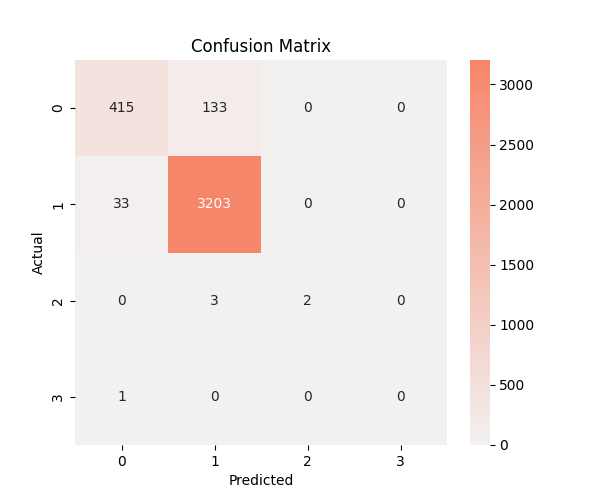
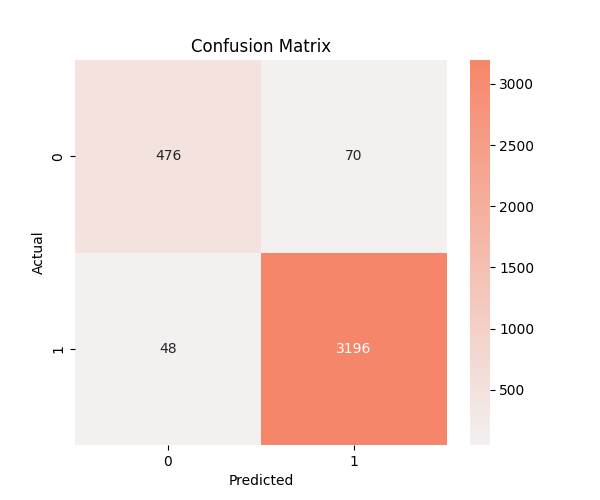
Updated SVM model

diff --git a/client/src/app.js b/client/src/app.js
@@ -1,7 +1,7 @@
 import React, { use, useEffect, useState } from "react";
 import axios from "axios";
 import { Chart, registerables } from "chart.js";
-import Sidebar from "./components/Navbar";
+import Navbar from "./components/Navbar";
 
 Chart.register(...registerables);
 
@@ -37,9 +37,12 @@ const App = () => {
           <div className="mt-6 text-center">
             <h2 className="text-xl font-semibold">Confusion Matrix</h2>
             <img src={data.conf_matrix} alt="Confusion Matrix" className="mt-4 w-auto max-w-full" />
+          </div>
+          <div className="mt-6 text-center">
             <img src={data.scatter_plot} alt="Scatter Plot" className="mt-4 w-auto max-w-full" />
-            <img src={data.pie_chart} alt="Scatter Plot" className="mt-4 w-auto max-w-full" />
-
+          </div>
+          <div className="mt-6 text-center">
+          <img src={data.pie_chart} alt="Scatter Plot" className="mt-4 w-auto max-w-full" />
           </div>
         </div>
       </div>

diff --git a/SVM/svm_model.py b/SVM/svm_model.py
@@ -31,17 +31,72 @@ try:
         # Drop unnecessary columns
         columns_to_drop = ['INDEX', 'ACCNUM', 'OBJECTID', 'HOOD_158', 'NEIGHBOURHOOD_158', 
                            'HOOD_140', 'NEIGHBOURHOOD_140', 'STREET1', 'STREET2', 'OFFSET', 
-                           'FATAL_NO', 'DISTRICT', 'DIVISION']
-        data_ksi.drop(columns=columns_to_drop, inplace=True)
+                           'FATAL_NO', 'DISTRICT', 'DIVISION','x','y','INJURY','INVTYPE','INVAGE','INITDIR','VEHTYPE',
+                           'MANOEUVER','DRIVACT','PEDTYPE','PEDACT','CYCLISTYPE','CYCACT',]
         
+        print("\n===================== UNIQUE VALUES =====================")
+        print("\nUnique values in DATE:", data_ksi["DATE"].unique())
+        print("\nUnique values in TIME:", data_ksi["TIME"].unique())
+        print("\nUnique values in ROAD_CLASS:", data_ksi["ROAD_CLASS"].unique())
+        print("\nUnique values in ACCLOC:",data_ksi["ACCLOC"].unique())
+        print("\nUnique values in TRAFFCTL:", data_ksi["TRAFFCTL"].unique())
+        print("\nUnique values in VISIBILITY:", data_ksi["VISIBILITY"].unique())
+        print("\nUnique values in LIGHT:", data_ksi["LIGHT"].unique())
+        print("\nUnique values in RDSFCOND:", data_ksi["RDSFCOND"].unique())
+        print("\nUnique values in IMPACTYPE:", data_ksi["IMPACTYPE"].unique())
+        print("\nUnique values in INVTYPE:", data_ksi["INVTYPE"].unique())
+        print("\nUnique values in INVAGE:", data_ksi["INVAGE"].unique())
+        print("\nUnique values in INJURY:", data_ksi["INJURY"].unique())
+        print("\nUnique values in INITDIR:", data_ksi["INITDIR"].unique())
+        print("\nUnique values in VEHTYPE:", data_ksi["VEHTYPE"].unique())
+        print("\nUnique values in MANOEUVER:", data_ksi["MANOEUVER"].unique())
+        print("\nUnique values in DRIVACT:", data_ksi["DRIVACT"].unique())
+        print("\nUnique values in DRIVCOND:", data_ksi["DRIVCOND"].unique())
+        print("\nUnique values in PEDTYPE:", data_ksi["PEDTYPE"].unique())
+        print("\nUnique values in PEDACT:", data_ksi["PEDACT"].unique())
+        print("\nUnique values in PEDCOND:", data_ksi["PEDCOND"].unique())
+        print("\nUnique values in CYCLISTYPE:", data_ksi["CYCLISTYPE"].unique())
+        print("\nUnique values in CYCACT:", data_ksi["CYCACT"].unique())
+        print("\nUnique values in CYCCOND:", data_ksi["CYCCOND"].unique())
+        print("\nUnique values in PEDESTRIAN:", data_ksi["PEDESTRIAN"].unique())
+        print("\nUnique values in CYCLIST:", data_ksi["CYCLIST"].unique())
+        print("\nUnique values in AUTOMOBILE:",data_ksi["AUTOMOBILE"].unique())
+        print("\nUnique values in MOTORCYCLE:", data_ksi["MOTORCYCLE"].unique())
+        print("\nUnique values in TRUCK:", data_ksi["TRUCK"].unique())
+        print("\nUnique values in TRSN_CITY_VEH:", data_ksi["TRSN_CITY_VEH"].unique())
+        print("\nUnique values in EMERG_VEH:", data_ksi["EMERG_VEH"].unique())
+        print("\nUnique values in PASSENGER:", data_ksi["PASSENGER"].unique())
+        print("\nUnique values in SPEEDING:", data_ksi["SPEEDING"].unique())
+        print("\nUnique values in AG_DRIV:", data_ksi["AG_DRIV"].unique())
+        print("\nUnique values in REDLIGHT:", data_ksi["REDLIGHT"].unique())
+        print("\nUnique values in ALCOHOL:", data_ksi["ALCOHOL"].unique())
+        print("\nUnique values in DISABILITY:", data_ksi["DISABILITY"].unique())
+        print("\nUnique values in ACCLASS:", data_ksi["ACCLASS"].unique())
+
+        # Drop unnecessary columns
+        data_ksi.drop(columns=columns_to_drop, inplace=True)
+
+        data_ksi = data_ksi.dropna(subset=["ACCLASS"])
+
+        data_ksi["PEDESTRIAN"] = data_ksi["PEDESTRIAN"].fillna("No")
+        data_ksi["CYCLIST"] = data_ksi["CYCLIST"].fillna("No")
+        data_ksi["AUTOMOBILE"] = data_ksi["AUTOMOBILE"].fillna("No")
+        data_ksi["MOTORCYCLE"] = data_ksi["MOTORCYCLE"].fillna("No")
+        data_ksi["TRUCK"] = data_ksi["TRUCK"].fillna("No")
+        data_ksi["TRSN_CITY_VEH"] = data_ksi["TRSN_CITY_VEH"].fillna("No")
+        data_ksi["EMERG_VEH"] = data_ksi["EMERG_VEH"].fillna("No")
+        data_ksi["PASSENGER"] = data_ksi["PASSENGER"].fillna("No")
+        data_ksi["SPEEDING"] = data_ksi["SPEEDING"].fillna("No")
+        data_ksi["AG_DRIV"] = data_ksi["AG_DRIV"].fillna("No")
+        data_ksi["REDLIGHT"] = data_ksi["REDLIGHT"].fillna("No")
+        data_ksi["ALCOHOL"] = data_ksi["ALCOHOL"].fillna("No")
+        data_ksi["DISABILITY"] = data_ksi["DISABILITY"].fillna("No")
+        data_ksi["ACCLASS"] = data_ksi["ACCLASS"].replace("Property Damage O", "Non-Fatal Injury")
+
         # Separate features & target
         target = data_ksi["ACCLASS"]
         features = data_ksi.drop(columns=["ACCLASS"])
-        
-        print("\n===================== UNIQUE VALUES =====================")
-        print("\nUnique values in ROAD_CLASS:", features["ROAD_CLASS"].unique())
-        print("\nUnique values in ACCLASS:", target.unique())
-        
+
         # Isolate last 10 records for unseen data
         unseen_features = features.iloc[-10:]
         unseen_labels = target.iloc[-10:]
@@ -130,17 +185,17 @@ try:
     ])
 
     # Best Parameters by Kernel
-    # param_grid_svm = [
-    #     {'svm__kernel': ['linear'], 'svm__C': [1]}, # linear kernel    
-    #     {'svm__kernel': ['rbf'], 'svm__C': [100], 'svm__gamma': [0.03]},  # rbf kernel
-    #     {'svm__kernel': ['poly'], 'svm__C': [0.1], 'svm__gamma': [3.0], 'svm__degree': [3]}  # poly kernel 
-    # ]
-
     param_grid_svm = [
-        {'svm__kernel': ['linear'], 'svm__C': [0.01, 0.1, 1, 10, 100]},  # linear kernel    
-        {'svm__kernel': ['rbf'], 'svm__C': [0.01, 0.1, 1, 10, 100], 'svm__gamma': [0.01, 0.03, 0.1, 0.3, 1.0, 3.0]},  # rbf kernel
-        {'svm__kernel': ['poly'], 'svm__C': [0.01, 0.1, 1, 10, 100], 'svm__gamma': [0.01, 0.03, 0.1, 0.3, 1.0, 3.0], 'svm__degree': [2, 3]}  # poly kernel 
+        #{'svm__kernel': ['linear'], 'svm__C': [1]}, # linear kernel    
+        #{'svm__kernel': ['rbf'], 'svm__C': [100], 'svm__gamma': [0.03]},  # rbf kernel
+        {'svm__kernel': ['poly'], 'svm__C': [0.1], 'svm__gamma': [3.0], 'svm__degree': [3]}  # poly kernel 
     ]
+
+    # param_grid_svm = [
+    #     {'svm__kernel': ['linear'], 'svm__C': [0.01, 0.1, 1, 10, 100]},  # linear kernel    
+    #     {'svm__kernel': ['rbf'], 'svm__C': [0.01, 0.1, 1, 10, 100], 'svm__gamma': [0.01, 0.03, 0.1, 0.3, 1.0, 3.0]},  # rbf kernel
+    #     {'svm__kernel': ['poly'], 'svm__C': [0.01, 0.1, 1, 10, 100], 'svm__gamma': [0.01, 0.03, 0.1, 0.3, 1.0, 3.0], 'svm__degree': [2, 3]}  # poly kernel 
+    # ]
 
     grid_search_ksi = GridSearchCV(estimator=pipe_svm_ksi, param_grid=param_grid_svm, scoring='accuracy', refit=True, verbose=3)
 

diff --git a/SVM/svm_xgboost_model.py b/SVM/svm_xgboost_model.py
@@ -31,17 +31,72 @@ try:
         # Drop unnecessary columns
         columns_to_drop = ['INDEX', 'ACCNUM', 'OBJECTID', 'HOOD_158', 'NEIGHBOURHOOD_158', 
                            'HOOD_140', 'NEIGHBOURHOOD_140', 'STREET1', 'STREET2', 'OFFSET', 
-                           'FATAL_NO', 'DISTRICT', 'DIVISION']
-        data_ksi.drop(columns=columns_to_drop, inplace=True)
+                           'FATAL_NO', 'DISTRICT', 'DIVISION','x','y','INJURY','INVTYPE','INVAGE','INITDIR','VEHTYPE',
+                           'MANOEUVER','DRIVACT','PEDTYPE','PEDACT','CYCLISTYPE','CYCACT',]
         
+        print("\n===================== UNIQUE VALUES =====================")
+        print("\nUnique values in DATE:", data_ksi["DATE"].unique())
+        print("\nUnique values in TIME:", data_ksi["TIME"].unique())
+        print("\nUnique values in ROAD_CLASS:", data_ksi["ROAD_CLASS"].unique())
+        print("\nUnique values in ACCLOC:",data_ksi["ACCLOC"].unique())
+        print("\nUnique values in TRAFFCTL:", data_ksi["TRAFFCTL"].unique())
+        print("\nUnique values in VISIBILITY:", data_ksi["VISIBILITY"].unique())
+        print("\nUnique values in LIGHT:", data_ksi["LIGHT"].unique())
+        print("\nUnique values in RDSFCOND:", data_ksi["RDSFCOND"].unique())
+        print("\nUnique values in IMPACTYPE:", data_ksi["IMPACTYPE"].unique())
+        print("\nUnique values in INVTYPE:", data_ksi["INVTYPE"].unique())
+        print("\nUnique values in INVAGE:", data_ksi["INVAGE"].unique())
+        print("\nUnique values in INJURY:", data_ksi["INJURY"].unique())
+        print("\nUnique values in INITDIR:", data_ksi["INITDIR"].unique())
+        print("\nUnique values in VEHTYPE:", data_ksi["VEHTYPE"].unique())
+        print("\nUnique values in MANOEUVER:", data_ksi["MANOEUVER"].unique())
+        print("\nUnique values in DRIVACT:", data_ksi["DRIVACT"].unique())
+        print("\nUnique values in DRIVCOND:", data_ksi["DRIVCOND"].unique())
+        print("\nUnique values in PEDTYPE:", data_ksi["PEDTYPE"].unique())
+        print("\nUnique values in PEDACT:", data_ksi["PEDACT"].unique())
+        print("\nUnique values in PEDCOND:", data_ksi["PEDCOND"].unique())
+        print("\nUnique values in CYCLISTYPE:", data_ksi["CYCLISTYPE"].unique())
+        print("\nUnique values in CYCACT:", data_ksi["CYCACT"].unique())
+        print("\nUnique values in CYCCOND:", data_ksi["CYCCOND"].unique())
+        print("\nUnique values in PEDESTRIAN:", data_ksi["PEDESTRIAN"].unique())
+        print("\nUnique values in CYCLIST:", data_ksi["CYCLIST"].unique())
+        print("\nUnique values in AUTOMOBILE:",data_ksi["AUTOMOBILE"].unique())
+        print("\nUnique values in MOTORCYCLE:", data_ksi["MOTORCYCLE"].unique())
+        print("\nUnique values in TRUCK:", data_ksi["TRUCK"].unique())
+        print("\nUnique values in TRSN_CITY_VEH:", data_ksi["TRSN_CITY_VEH"].unique())
+        print("\nUnique values in EMERG_VEH:", data_ksi["EMERG_VEH"].unique())
+        print("\nUnique values in PASSENGER:", data_ksi["PASSENGER"].unique())
+        print("\nUnique values in SPEEDING:", data_ksi["SPEEDING"].unique())
+        print("\nUnique values in AG_DRIV:", data_ksi["AG_DRIV"].unique())
+        print("\nUnique values in REDLIGHT:", data_ksi["REDLIGHT"].unique())
+        print("\nUnique values in ALCOHOL:", data_ksi["ALCOHOL"].unique())
+        print("\nUnique values in DISABILITY:", data_ksi["DISABILITY"].unique())
+        print("\nUnique values in ACCLASS:", data_ksi["ACCLASS"].unique())
+
+        # Drop unnecessary columns
+        data_ksi.drop(columns=columns_to_drop, inplace=True)
+
+        data_ksi = data_ksi.dropna(subset=["ACCLASS"])
+
+        data_ksi["PEDESTRIAN"] = data_ksi["PEDESTRIAN"].fillna("No")
+        data_ksi["CYCLIST"] = data_ksi["CYCLIST"].fillna("No")
+        data_ksi["AUTOMOBILE"] = data_ksi["AUTOMOBILE"].fillna("No")
+        data_ksi["MOTORCYCLE"] = data_ksi["MOTORCYCLE"].fillna("No")
+        data_ksi["TRUCK"] = data_ksi["TRUCK"].fillna("No")
+        data_ksi["TRSN_CITY_VEH"] = data_ksi["TRSN_CITY_VEH"].fillna("No")
+        data_ksi["EMERG_VEH"] = data_ksi["EMERG_VEH"].fillna("No")
+        data_ksi["PASSENGER"] = data_ksi["PASSENGER"].fillna("No")
+        data_ksi["SPEEDING"] = data_ksi["SPEEDING"].fillna("No")
+        data_ksi["AG_DRIV"] = data_ksi["AG_DRIV"].fillna("No")
+        data_ksi["REDLIGHT"] = data_ksi["REDLIGHT"].fillna("No")
+        data_ksi["ALCOHOL"] = data_ksi["ALCOHOL"].fillna("No")
+        data_ksi["DISABILITY"] = data_ksi["DISABILITY"].fillna("No")
+        data_ksi["ACCLASS"] = data_ksi["ACCLASS"].replace("Property Damage O", "Non-Fatal Injury")
+
         # Separate features & target
         target = data_ksi["ACCLASS"]
         features = data_ksi.drop(columns=["ACCLASS"])
-        
-        print("\n===================== UNIQUE VALUES =====================")
-        print("\nUnique values in ROAD_CLASS:", features["ROAD_CLASS"].unique())
-        print("\nUnique values in ACCLASS:", target.unique())
-        
+
         # Isolate last 10 records for unseen data
         unseen_features = features.iloc[-10:]
         unseen_labels = target.iloc[-10:]

diff --git a/server/app.py b/server/app.py
@@ -2,14 +2,30 @@ from flask import Flask, jsonify
 from flask_cors import CORS
 
 from sklearn.metrics import confusion_matrix
-
 from classes.DataProcessor import DataProcessor
+
 from classes.Visualizer import Visualizer
 from classes.ModelTrainer import ModelTrainer
 from classes.ModelPerformance import ModelPerformance
 
 app = Flask(__name__)
 CORS(app)  # Allow React to call Flask API
+
+data_processor = DataProcessor('./data/Total_KSI.csv')
+visualizer = Visualizer(data_processor.data_ksi)
+model_trainer = ModelTrainer(data_processor)
+
+# Visualizations
+visualizer.scatter_plot('../client/public/images/scatterplot.png')
+visualizer.pie_chart('../client/public/images/piechart.png')
+visualizer.bar_chart('../client/public/images/barchart.png')
+
+# Train the model
+model = model_trainer.train_model()
+performance = ModelPerformance(model,data_processor.X_test, data_processor.y_test)
+
+performance.conf_matrix('../client/public/images/confusion_matrix_svm.png')
+performance.plot_classification_report_radial('../client/public/images/classification_report_svm.png')
 
 @app.route('/api/data', methods=['GET'])
 def get_data():
@@ -20,20 +36,4 @@ def get_data():
     })
 
 if __name__ == '__main__':
-    data_processor = DataProcessor('./data/Total_KSI.csv')
-    visualizer = Visualizer(data_processor.data_ksi)
-    model_trainer = ModelTrainer(data_processor)
-
-    # Visualizations
-    visualizer.scatter_plot('../client/public/images/scatterplot.png')
-    visualizer.pie_chart('../client/public/images/piechart.png')
-    visualizer.bar_chart('../client/public/images/barchart.png')
-
-    # Train the model
-    model = model_trainer.train_model()
-    performance = ModelPerformance(model,data_processor.X_test, data_processor.y_test)
-
-    performance.conf_matrix('../client/public/images/confusion_matrix_svm.png')
-    performance.plot_classification_report_radial('../client/public/images/classification_report_svm.png')
-
     app.run(debug=True)
